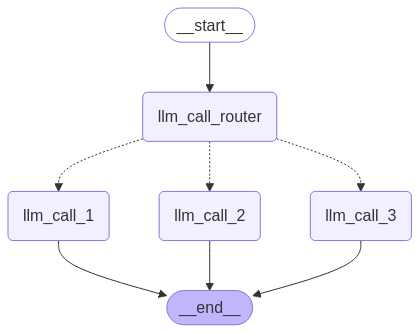
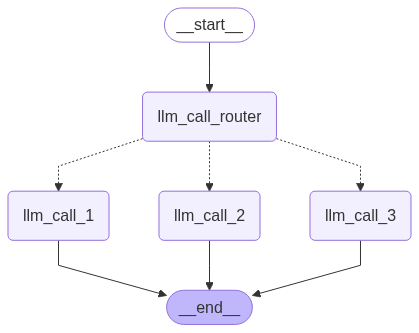
refactor: apply mcp integration pattern to routing pattern

diff --git a/workflows/routing/builder.py b/workflows/routing/builder.py
@@ -1,112 +1,69 @@
-from pydantic import BaseModel, Field
-from typing_extensions import Literal
-from langchain_core.messages import HumanMessage, SystemMessage
-from typing_extensions import TypedDict
 from langgraph.graph import StateGraph, START, END
+from llms.llm import LLM
+from models.llm_settings import LLMSettings
+from models.settings_request import SettingsRequest
+from langgraph.checkpoint.memory import InMemorySaver
 
-from llms.ollama import OllamaChain
+from dotenv import load_dotenv
+import traceback
 
+from workflows.mcp_integration.models.state import State
+from workflows.routing.models.route import Route
+from workflows.routing.nodes.llm_route_node import LlmRouteNode
 
-# Schema for structured output to use as routing logic
-class Route(BaseModel):
-    step: Literal["poem", "story", "joke"] = Field(
-        None, description="The next step in the routing process"
-    )
+# load environment variables
+load_dotenv()
 
-# setup llm chain
-llm = OllamaChain().llm
+async def build_graph(request: SettingsRequest):
+    try:
+        
+        llm_settings = LLMSettings()
+        llm_settings.model_name = request.model_name
+        llm_settings.temperature = request.temperature
+        llm_settings.streaming = request.is_streaming
+        
+        llm = LLM()
+        chain_general = llm.create_chain(llm_settings)
 
-# Augment the LLM with schema for structured output
-router = OllamaChain(structured=Route).llm
+        llm_settings.structured = Route
+        chain_route = llm.create_chain(llm_settings)
 
-# State
-class State(TypedDict):
-    input: str
-    decision: str
-    output: str
+        llm_route_node = LlmRouteNode(chain_general, chain_route)
+        
+        builder = StateGraph(State)
+        builder.add_node("llm_call_router", llm_route_node.llm_call_router)
+        builder.add_node('llm_call_1', llm_route_node.llm_call_1)
+        builder.add_node("llm_call_2", llm_route_node.llm_call_2)
+        builder.add_node("llm_call_3", llm_route_node.llm_call_3)
+        
+        # Add edges to connect nodes
+        builder.add_edge(START, "llm_call_router")
+        builder.add_conditional_edges(
+            "llm_call_router",
+            llm_route_node.route_decision,
+            {  # Name returned by route_decision : Name of next node to visit
+                "llm_call_1": "llm_call_1",
+                "llm_call_2": "llm_call_2",
+                "llm_call_3": "llm_call_3",
+            },
+        )
+        builder.add_edge("llm_call_1", END)
+        builder.add_edge("llm_call_2", END)
+        builder.add_edge("llm_call_3", END)
 
+        # To support specific thread for get state from graph
+        memory = InMemorySaver()
+        
+        graph = builder.compile(checkpointer=memory)
 
-# Nodes
-def llm_call_1(state: State):
-    """Write a story"""
-    print(f'input: {state["input"]}')
-    print('select: llm_call_1')
-    result = llm.invoke(state["input"])
-    return {"output": result if isinstance(result, str) else result.content}
+        # Show the workflow
+        img_data = graph.get_graph().draw_mermaid_png()
+        with open('./output/graph-routing.png', 'wb') as f:
+            f.write(img_data)
+            print("Graph image saved successfully!")
 
+        return graph
+    except Exception as e:
+        print(f'In build graph error: {traceback.format_exc()}')
+        raise e
 
-def llm_call_2(state: State):
-    """Write a joke"""
-    print(f'input: {state["input"]}')
-    print('select: llm_call_2')
-    result = llm.invoke(state["input"])
-    return {"output": result if isinstance(result, str) else result.content}
-
-
-def llm_call_3(state: State):
-    """Write a poem"""
-    print(f'input: {state["input"]}')
-    print('select: llm_call_3')
-    result = llm.invoke(state["input"])
-    return {"output": result if isinstance(result, str) else result.content}
-
-
-def llm_call_router(state: State):
-    """Route the input to the appropriate node"""
-
-    # Run the augmented LLM with structured output to serve as routing logic
-    decision = router.invoke(
-        [
-            SystemMessage(
-                content="Route the input to story, joke, or poem based on the user's request."
-            ),
-            HumanMessage(content=state["input"]),
-        ]
-    )
-
-    return {"decision": decision.step}
-
-
-# Conditional edge function to route to the appropriate node
-def route_decision(state: State):
-    # Return the node name you want to visit next
-    if state["decision"] == "story":
-        return "llm_call_1"
-    elif state["decision"] == "joke":
-        return "llm_call_2"
-    elif state["decision"] == "poem":
-        return "llm_call_3"
-
-
-# Build workflow
-router_builder = StateGraph(State)
-
-# Add nodes
-router_builder.add_node("llm_call_1", llm_call_1)
-router_builder.add_node("llm_call_2", llm_call_2)
-router_builder.add_node("llm_call_3", llm_call_3)
-router_builder.add_node("llm_call_router", llm_call_router)
-
-# Add edges to connect nodes
-router_builder.add_edge(START, "llm_call_router")
-router_builder.add_conditional_edges(
-    "llm_call_router",
-    route_decision,
-    {  # Name returned by route_decision : Name of next node to visit
-        "llm_call_1": "llm_call_1",
-        "llm_call_2": "llm_call_2",
-        "llm_call_3": "llm_call_3",
-    },
-)
-router_builder.add_edge("llm_call_1", END)
-router_builder.add_edge("llm_call_2", END)
-router_builder.add_edge("llm_call_3", END)
-
-# Compile workflow
-graph = router_builder.compile()
-
-# Show the workflow
-img_data = graph.get_graph().draw_mermaid_png()
-with open('./output/graph-routing.png', 'wb') as f:
-    f.write(img_data)
-    print("Graph image saved successfully!")

diff --git a/workflows/routing/nodes/llm_route_node.py b/workflows/routing/nodes/llm_route_node.py
@@ -1,0 +1,65 @@
+from llms.llm_provider import LLMProvider
+from workflows.routing.states.state import State
+from langchain_core.messages import HumanMessage, SystemMessage
+
+class LlmRouteNode:
+    
+    def __init__(self, chain_general:LLMProvider, chain_route:LLMProvider):
+        self.llm = chain_general.llm
+        # Augment the LLM with schema for structured output
+        self.router = chain_route.llm
+
+    def llm_call_1(self, state: State):
+        """Write a story"""
+        print(f'input: {state["input"]}')
+        print('select: llm_call_1')
+        result = self.llm.invoke(state["input"])
+        return {"output": result if isinstance(result, str) else result.content}
+
+
+    def llm_call_2(self, state: State):
+        """Write a joke"""
+        print(f'input: {state["input"]}')
+        print('select: llm_call_2')
+        result = self.llm.invoke(state["input"])
+        return {"output": result if isinstance(result, str) else result.content}
+
+
+    def llm_call_3(self, state: State):
+        """Write a poem"""
+        print(f'input: {state["input"]}')
+        print('select: llm_call_3')
+        result = self.llm.invoke(state["input"])
+        return {"output": result if isinstance(result, str) else result.content}
+
+
+    def llm_call_router(self, state: State):
+        """Route the input to the appropriate node"""
+
+        print(state)
+        input_content = state["messages"][-1]["content"]
+        # Run the augmented LLM with structured output to serve as routing logic
+        decision = self.router.invoke(
+            [
+                SystemMessage(
+                    content="Route the input to story, joke, or poem based on the user's request."
+                ),
+                HumanMessage(content=input_content),
+            ]
+        )
+
+        return {
+            "input": input_content,
+            "decision": decision.step
+        }
+
+
+    # Conditional edge function to route to the appropriate node
+    def route_decision(self, state: State):
+        # Return the node name you want to visit next
+        if state["decision"] == "story":
+            return "llm_call_1"
+        elif state["decision"] == "joke":
+            return "llm_call_2"
+        elif state["decision"] == "poem":
+            return "llm_call_3"

diff --git a/routers/chat.py b/routers/chat.py
@@ -2,7 +2,8 @@ from fastapi import APIRouter
 from fastapi.responses import StreamingResponse, JSONResponse
 from models.chat_request import ChatRequest
 from models.settings_request import SettingsRequest
-from workflows.mcp_integration.builder import build_graph
+from workflows.mcp_integration.builder import build_graph as build_graph_mcp
+from workflows.routing.builder import build_graph as build_graph_routing
 import asyncio
 
 graph_cache = {
@@ -94,7 +95,11 @@ async def stream_graph_updates(thread_id: str, request: ChatRequest):
 @router.post("/setting/{thread_id}")
 async def update_setting(request: SettingsRequest, thread_id:str):
     try:
-        graph = await build_graph(request)
+        if request.use_agent == "routing":
+            graph = await build_graph_routing(request)
+        else:
+            graph = await build_graph_mcp(request)
+
         graph_cache[thread_id] = {
             "settings": request,
             "graph": graph,

diff --git a/main.py b/main.py
@@ -4,7 +4,6 @@ from fastapi.middleware.cors import CORSMiddleware
 # from workflows.chatbot.handler import start_chatbot
 # from workflows.prompt_chain.handler import start_promp_chain
 # from workflows.parallelization.handler import start_parallelization
-# from workflows.routing.handler import start_routing
 # from workflows.orchestrator_worker.handler import start_orchestrator
 # from workflows.evaluator_optimizer.handler import start_evaluator_optimizer
 # from workflows.agent.handler import start_agent
@@ -26,7 +25,6 @@ def create_app() -> FastAPI:
     # start_chatbot()
     # start_promp_chain()
     # start_parallelization()
-    # start_routing()
     # start_orchestrator()
     # start_evaluator_optimizer()
     # start_agent()

diff --git a/models/settings_request.py b/models/settings_request.py
@@ -5,6 +5,7 @@ class SettingsRequest(BaseModel):
     temperature: float = 0.7
     is_streaming: bool = True
     save_graph_path: str = ""
+    use_agent: str = "mcp_integration"
     
     @field_validator("model_name")
     def validate_model_name(cls, value):

diff --git a/workflows/routing/models/route.py b/workflows/routing/models/route.py
@@ -1,0 +1,7 @@
+from pydantic import BaseModel, Field
+from typing_extensions import Literal
+
+class Route(BaseModel):
+    step: Literal["poem", "story", "joke"] = Field(
+        None, description="The next step in the routing process"
+    )

diff --git a/workflows/routing/states/state.py b/workflows/routing/states/state.py
@@ -1,0 +1,8 @@
+from typing_extensions import TypedDict
+from typing import Any
+
+class State(TypedDict):
+    messages: Any
+    input: str
+    decision: str
+    output: str

diff --git a/README.md b/README.md
@@ -2,7 +2,14 @@
 
 Ref. https://langchain-ai.github.io/langgraph/tutorials/
 
+## Patterns
+
+- [x] Routing
+- [x] MCP Integration
+
 ## Prerequisites
+
+Coming soon...
 
 ### Environment Variables
 
@@ -87,7 +94,7 @@ pip install -r requirements.txt
 > ---
 > Don't forget start `ollama` if you no have any LLM providers:
 >
-> ```
+> ```sh
 > ollama serve
 > ```
 >
@@ -116,27 +123,28 @@ INFO:     127.0.0.1:58164 - "POST /chat/1 HTTP/1.1" 200 OK
 
 ### Streaming
 
+Set setting first to config model and parameters:
+
+```sh
+curl --location 'http://localhost:8000/chat/setting/1' \
+--header 'Content-Type: application/json' \
+--data '{
+    "model_name": "llama3.2:latest",
+    "temperature": 0.7,
+    "is_streaming": true,
+    "use_agent": "routing", 
+    "save_graph_path": "./output/graph-routing.png"
+}'
+```
+
+Then let's chat:
+
 ```sh
 curl --location 'http://localhost:8000/chat/1' \
 --header 'Content-Type: application/json' \
 --data '{
-    "message": "hi, who are you?",
-    "model": "llama3.2:latest",
-    "is_streaming": true
+    "message": "Write me a joke about cats"
 }'
-```
-
-Ex. output:
-
-```sh
-StateSnapshot(values={}, next=(), config={'configurable': {'thread_id': '1'}}, metadata=None, created_at=None, parent_config=None, tasks=(), interrupts=())
-I|'m| an| AI| chat|bot|,| also| known| as| a| convers|ational| AI| or| natural| language| processing| (|N|LP|)| model|.| I| don|'t| have| personal| experiences|,| emotions|,| or| consciousness| like| humans| do|,| but| I|'m| designed| to| simulate| conversation| and| answer| questions| to| the| best| of| my| ability|.
-
-|My| name| isn|'t| really| a| "|name|"| in| the| classical| sense|,| but| I|'m| often| referred| to| as| "|Assistant|"| or| "|Bot|"| by| users| like| you|.| I| exist| solely| to| provide| information|,| answer| questions|,| and| engage| in| discussions| on| a| wide| range| of| topics|.
-
-|I|'ve| been| trained| on| vast| amounts| of| text| data|,| which| allows| me| to| generate| human|-like| responses| to| a| broad| range| of| queries|.| However|,| my| knowledge| cutoff| is| December| |202|3|,| so| if| you| ask| me| about| very| recent| events| or| developments|,| I| might| not| have| the| most| up|-to|-date| information|.
-
-|Feel| free| to| ask| me| anything|,| and| I|'ll| do| my| best| to| provide| a| helpful| response|!|
 ```
 
 ## Contributing

diff --git a/workflows/routing/README.md b/workflows/routing/README.md
@@ -1,3 +1,13 @@
 # Routing
 
 Select route to execute (next prompt) when match some condition
+
+## Usage
+
+```sh
+curl --location 'http://localhost:8000/chat/1' \
+--header 'Content-Type: application/json' \
+--data '{
+    "message": "Write me a joke about cats"
+}'
+```
